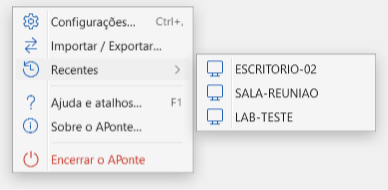
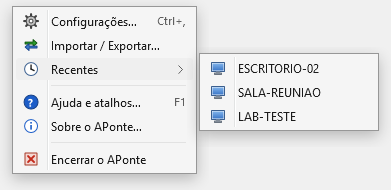
Página de apresentação: telas e novidades da 1.6.155

diff --git a/README.md b/README.md
@@ -51,9 +51,9 @@ O APonte liga os PCs Windows da mesma rede: o ponteiro passa da borda de uma tel
 
 Windows 10/11 x64 · .NET 11 Desktop Runtime x64. Dois pacotes por versão: instalador `.msi` e portátil `.zip`. / *Two packages per version: `.msi` installer and portable `.zip`.*
 
-## Novidades / What's new — v1.6.154
-- Configurações no visual Windows 7: uma página por vez e grupos com o título na borda. / *Settings in the Windows 7 look: one page at a time and groups titled on the border.*
-- "Restaurar padrão" no rodapé das Configurações. / *"Restore defaults" at the bottom of Settings.*
-- Tela do outro computador e pedido de conexão no visual Windows 7. / *The other computer's screen and the connection request in the Windows 7 look.*
+## Novidades / What's new — v1.6.155
+- Ícones coloridos e botões do título no jeito do Windows 7 em todo o app. / *Windows 7 style color icons and title buttons throughout the app.*
+- Janela principal com grupos do Windows 7 no lugar dos cartões brancos. / *Main window with Windows 7 groups instead of white cards.*
+- Configurações uma página por vez, com grupos e "Restaurar padrão" no rodapé. / *Settings one page at a time, with groups and "Restore defaults" at the bottom.*
 
 <sub>© 2024-2026 Fabio Fernando Giacomelli. Uso somente com autorização escrita do autor. / Use only with the author's written authorization.</sub>
